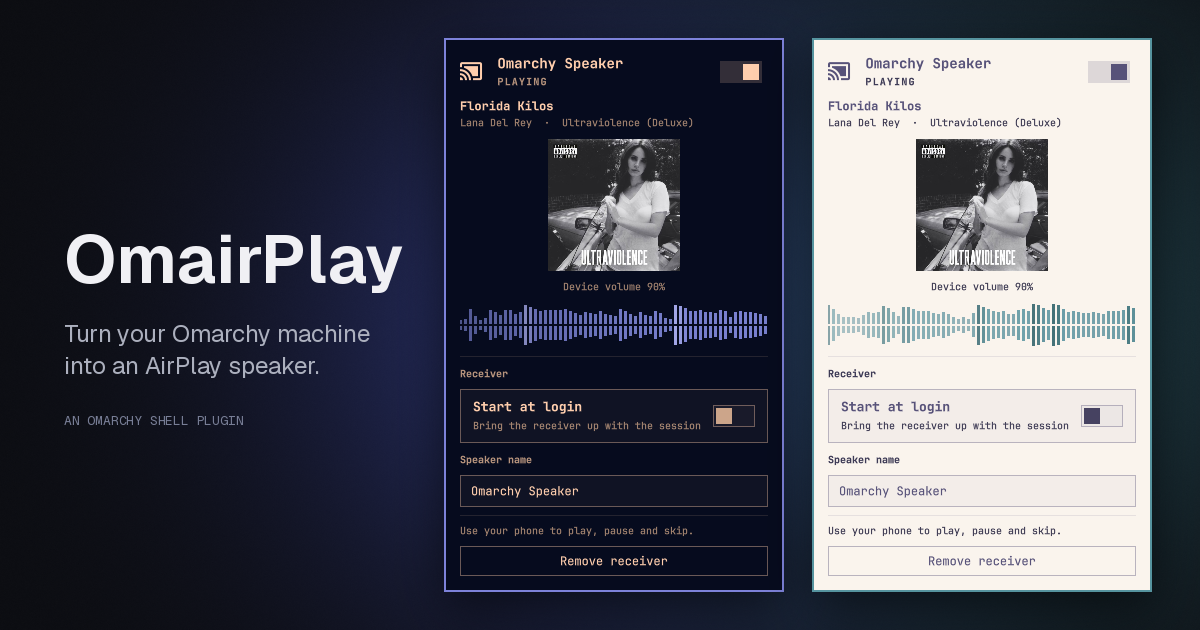
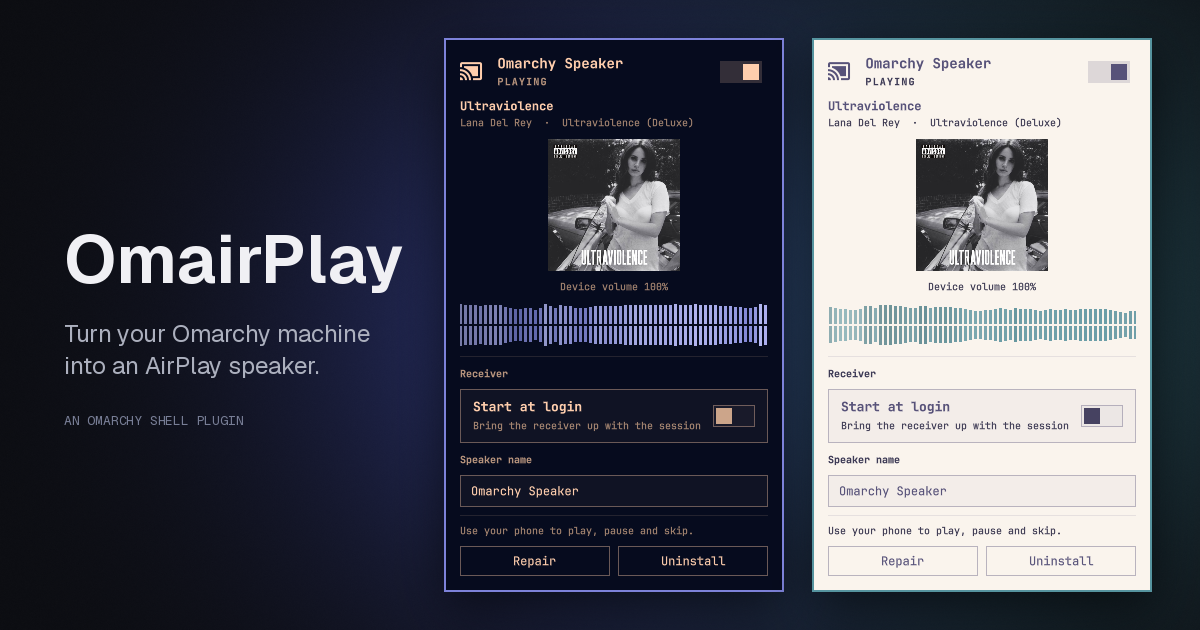
New README screenshots

diff --git a/README.md b/README.md
@@ -1,6 +1,6 @@
 # OmairPlay
 
-![OmairPlay](preview.png?v=3)
+![OmairPlay](preview.png?v=4)
 
 Turn your Omarchy machine into an AirPlay speaker with your iPhone as the remote.
 
@@ -80,7 +80,7 @@ the track changes, a notification appears with the cover art.
 
 It takes its colours and font from whichever Omarchy theme you're using:
 
-![The popup under four Omarchy themes](themes.png?v=3)
+![The popup under four Omarchy themes](themes.png?v=4)
 
 Control playback from your phone — it stays the player throughout.
 
